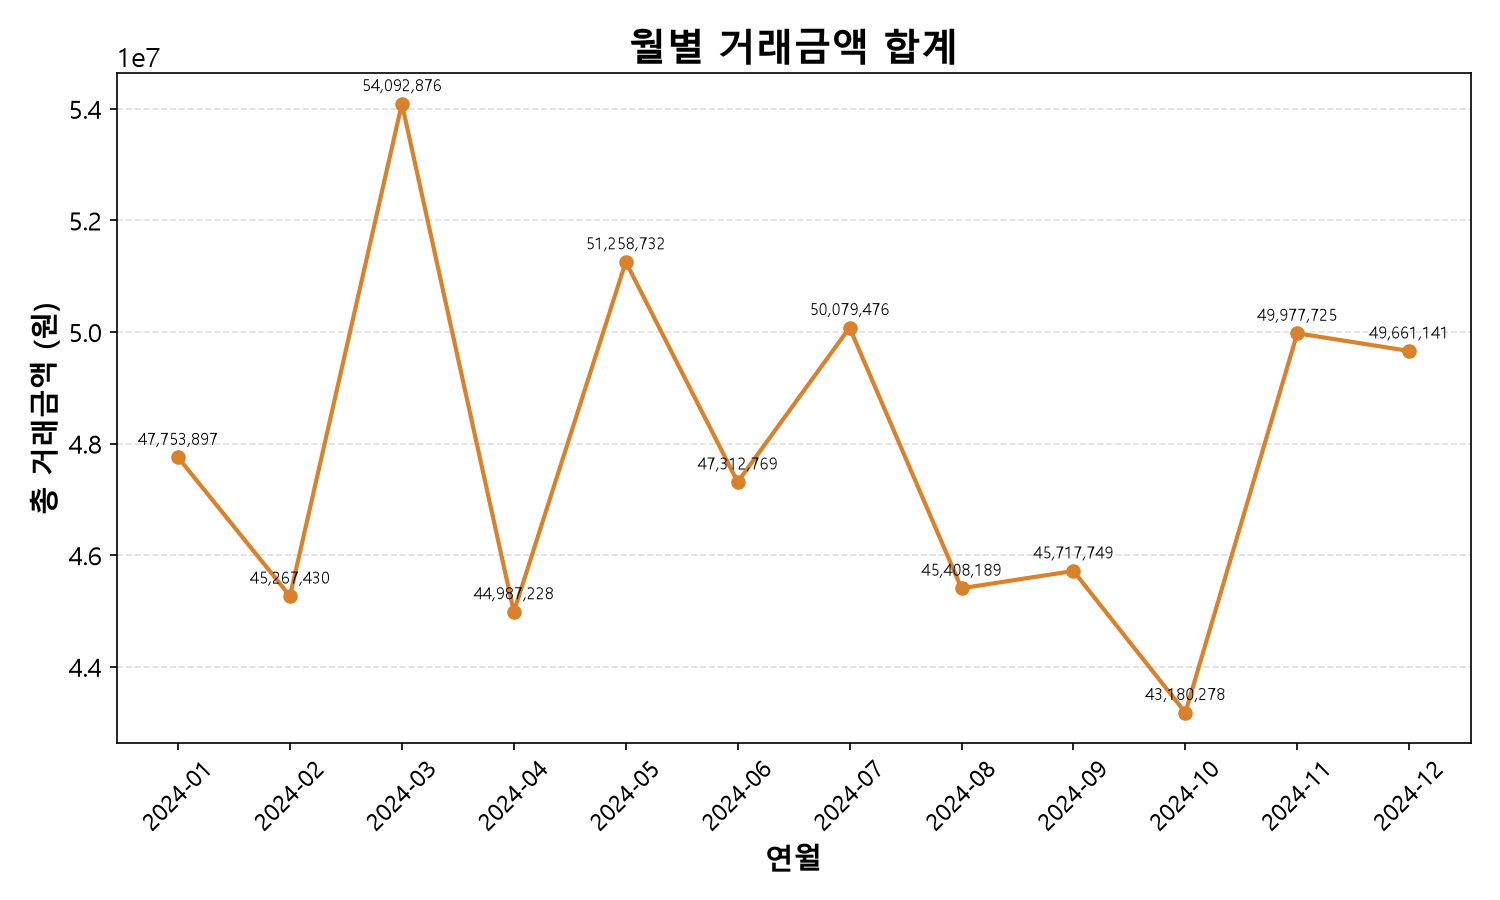
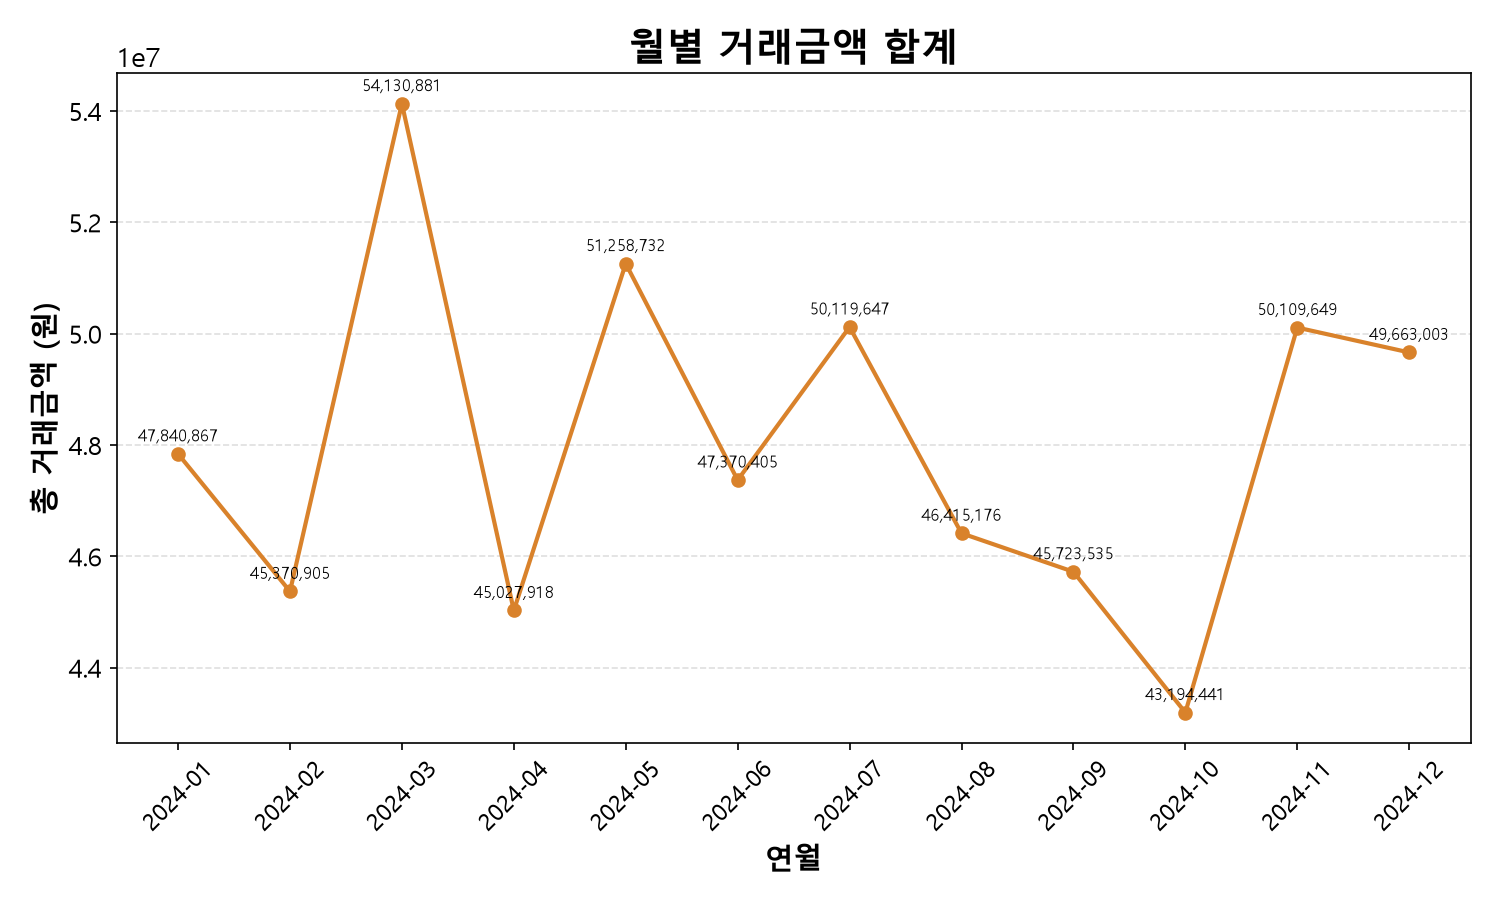
정제 파일에 음수 거래금액 제거 단계 추가(11,713행), 연령대 박스플롯·요일별 막대 그래프 추가, 전체 그래프·보고서 재생성
Claude-Session: https://claude.ai/code/session_01LZdg1f9QtFQKoLo3eTQjnP

diff --git a/scripts/plot_연령대_요일.py b/scripts/plot_연령대_요일.py
@@ -1,0 +1,87 @@
+import os
+os.chdir(os.path.dirname(os.path.abspath(__file__)) + "/..")
+
+import pandas as pd
+import matplotlib.pyplot as plt
+import matplotlib as mpl
+from matplotlib.ticker import FuncFormatter
+
+mpl.rcParams["font.family"] = "Malgun Gothic"
+mpl.rcParams["axes.unicode_minus"] = False
+mpl.rcParams["font.size"] = 13
+
+df = pd.read_csv("data/핀테크_정제완료.csv", encoding="utf-8-sig")
+df["거래일시"] = pd.to_datetime(df["거래일시"], format="mixed")
+
+os.makedirs("output/charts", exist_ok=True)
+
+# ---------- 1) 연령대별 거래금액 분포 - 박스플롯 ----------
+# 연령대를 나이 순서로 정렬 - 그냥 두면 문자열 순서(10대,20대,30대...)라 상관없어 보이지만
+# '알수없음'/'미상' 같은 결측 라벨이 섞이면 순서가 뒤섞이므로 명시적으로 순서를 지정함
+age_order = ["10대", "20대", "30대", "40대", "50대", "60대 이상"]
+present_ages = [a for a in age_order if a in df["연령대"].unique()]
+other_ages = [a for a in df["연령대"].unique() if a not in age_order]
+order = present_ages + other_ages
+
+# 박스플롯을 그릴 때만 초고액 이상치를 뺌(정제 파일 자체는 건드리지 않음).
+# IQR(사분위범위) 기준 상한을 넘는 값은 소수의 극단치라서 그대로 두면 박스가 눌려 보임
+q1, q3 = df["거래금액"].quantile(0.25), df["거래금액"].quantile(0.75)
+iqr = q3 - q1
+upper_fence = q3 + 1.5 * iqr
+n_excluded = (df["거래금액"] > upper_fence).sum()
+df_box = df[df["거래금액"] <= upper_fence]
+print(f"박스플롯용 이상치 제외: {n_excluded}건 (상한 {upper_fence:,.0f}원 초과)")
+
+data_by_age = [df_box.loc[df_box["연령대"] == a, "거래금액"].dropna().values for a in order]
+
+fig1, ax1 = plt.subplots(figsize=(10, 6))
+bp = ax1.boxplot(data_by_age, tick_labels=order, patch_artist=True,
+                  medianprops=dict(color="#8B3A00", linewidth=2),
+                  flierprops=dict(marker="o", markersize=3, markerfacecolor="#C0392B", markeredgecolor="none", alpha=0.5))
+for patch in bp["boxes"]:
+    patch.set_facecolor("#F0A868")
+    patch.set_edgecolor("#8B3A00")
+
+ax1.set_xlabel("연령대", fontsize=14, fontweight="bold")
+ax1.set_ylabel("거래금액 (천원)", fontsize=14, fontweight="bold")
+ax1.tick_params(axis="x", labelsize=12)
+ax1.tick_params(axis="y", labelsize=12)
+ax1.yaxis.set_major_formatter(FuncFormatter(lambda x, _: f"{x/1000:,.0f}"))
+ax1.grid(axis="y", linestyle="--", alpha=0.4, zorder=0)
+ax1.set_axisbelow(True)
+
+ax1.set_title(f"연령대별 거래금액 분포 (IQR 상한 초과 이상치 {n_excluded}건 제외)",
+              fontsize=16, fontweight="bold")
+
+fig1.tight_layout()
+fig1.savefig("output/charts/연령대별_거래금액_분포.png", dpi=150)
+print("저장 완료: output/charts/연령대별_거래금액_분포.png")
+
+# ---------- 2) 요일별 거래 건수 - 막대그래프 ----------
+weekday_kr = ["월", "화", "수", "목", "금", "토", "일"]
+df["요일"] = df["거래일시"].dt.dayofweek.map(dict(enumerate(weekday_kr)))
+weekday_counts = df["요일"].value_counts().reindex(weekday_kr)
+
+fig2, ax2 = plt.subplots(figsize=(9, 6))
+colors = ["#D9822B"] * 5 + ["#C0392B"] * 2  # 주말(토,일)만 강조색으로 구분
+bars = ax2.bar(weekday_counts.index, weekday_counts.values, color=colors)
+ax2.set_title("요일별 거래 건수", fontsize=18, fontweight="bold")
+ax2.set_xlabel("요일", fontsize=14, fontweight="bold")
+ax2.set_ylabel("거래 건수", fontsize=14, fontweight="bold")
+ax2.tick_params(axis="x", labelsize=12)
+ax2.tick_params(axis="y", labelsize=12)
+ax2.grid(axis="y", linestyle="--", alpha=0.4, zorder=0)
+ax2.set_axisbelow(True)
+
+for bar in bars:
+    height = bar.get_height()
+    ax2.annotate(f"{height:,}건", xy=(bar.get_x() + bar.get_width() / 2, height),
+                 xytext=(0, 4), textcoords="offset points", ha="center", va="bottom",
+                 fontsize=11, fontweight="bold")
+
+ax2.margins(y=0.12)
+fig2.tight_layout()
+fig2.savefig("output/charts/요일별_거래건수.png", dpi=150)
+print("저장 완료: output/charts/요일별_거래건수.png")
+
+plt.show()

diff --git a/scripts/clean_fintech.py b/scripts/clean_fintech.py
@@ -30,8 +30,15 @@ df = df.drop_duplicates()
 n3 = len(df)
 print(f"3단계(완전 중복 제거) 후: {n3}행 ({before - n3}건 감소)")
 
+# 4. 음수 거래금액 제거 - 부호가 뒤집힌 값이 섞여 있으면 합계·분포(박스플롯 등)가 왜곡됨.
+# CLAUDE.md 기본 규칙상 정제 단계에서는 안 건드리지만, 이번엔 별도로 지시받아 제거함
+before = len(df)
+df = df[df["거래금액"] >= 0]
+n4 = len(df)
+print(f"4단계(음수 거래금액 제거) 후: {n4}행 ({before - n4}건 감소)")
+
 df.to_csv(DST, index=False, encoding="utf-8-sig")
 
 print()
-print(f"정제 전: {n0}행 -> 정제 후: {n3}행 (총 {n0 - n3}건 감소)")
+print(f"정제 전: {n0}행 -> 정제 후: {n4}행 (총 {n0 - n4}건 감소)")
 print(f"저장 완료: {DST}")

diff --git a/그래프_분석_보고서.md b/그래프_분석_보고서.md
@@ -1,6 +1,6 @@
 # 핀테크 결제 데이터 그래프 분석 보고서
 
-데이터 출처: `data/핀테크_정제완료.csv`
+데이터 출처: `data/핀테크_정제완료.csv` (11,713행 — 결측 채움→결측행 삭제→완전중복 제거→음수 거래금액 제거)
 
 ---
 
@@ -8,9 +8,9 @@
 
 ![업종별 총 거래금액](output/charts/업종별_총거래금액.png)
 
-- '여행' 업종 126,354,008원으로 1위, 전체의 22.0%
-- '쇼핑'(120,599,357원) 근소한 차이로 2위, 상위 두 업종이 전체의 약 43% — 매출 소수 업종 집중
-- '교통'(5,244,276원) 최하위, 1위 대비 24배 차이 — 소액·고빈도 결제(대중교통) 특성
+- '여행' 업종 127,325,668원으로 1위, 전체(576,225,159원)의 22.1%
+- '쇼핑'(120,900,040원) 근소한 차이로 2위, 상위 두 업종이 전체의 약 43.1% — 매출 소수 업종 집중
+- '교통'(5,251,924원) 최하위, 1위 대비 약 24.2배 차이 — 소액·고빈도 결제(대중교통) 특성
 - **시사점**: 여행·쇼핑 등 고단가 업종 중심 제휴/프로모션이 매출 확대에 효율적, 교통은 건수 기반 서비스(포인트 적립 등) 접근 적합
 
 ---
@@ -19,8 +19,8 @@
 
 ![월별 거래금액 추이](output/charts/월별_거래금액_추이.png)
 
-- 3월(54,092,876원) 연중 최고치, 10월(43,180,278원) 최저치
-- 최댓값·최솟값 차이 약 1,090만 원, 전체 평균(약 4,800만 원) 대비 20% 남짓 — 뚜렷한 계절성보다 완만한 등락
+- 3월(54,130,881원) 연중 최고치, 10월(43,194,441원) 최저치
+- 최댓값·최솟값 차이 약 1,094만 원, 전체 평균(약 4,802만 원) 대비 22.8% 남짓 — 뚜렷한 계절성보다 완만한 등락
 - 1~3월 상승 후 4월 급락, 5월 재상승 등 톱니형 변동 반복 — 특정 이벤트(설 연휴, 분기 결산 등)와의 연관성 추가 확인 필요
 - **시사점**: 뚜렷한 성수기·비수기 구간 부재, 프로모션을 특정 시즌에 집중할 근거 미약. 월별 변동 원인(업종·이벤트) 추가 분석 필요
 
@@ -30,9 +30,9 @@
 
 ![결제수단별 거래금액 비중](output/charts/결제수단별_금액비중.png)
 
-- 신용카드 금액 기준 38.5%로 1위, 체크카드(21.5%)·계좌이체(16.1%) 순
-- 건수 비중(39.2%)과 금액 비중(38.5%) 유사 — 신용카드 건당 단가 평균 수준
-- `' 신용카드'`(공백 오염, 5.1%), `'알수없음'`(결측 대체, 3.2%) 별도 조각 존재. 공백 오염분 병합 시 신용카드 비중 약 43.7%
+- 신용카드 금액 기준 38.6%로 1위, 체크카드(21.5%)·계좌이체(16.1%) 순
+- 건수 비중(39.3%)과 금액 비중(38.6%) 유사 — 신용카드 건당 단가 평균 수준
+- `' 신용카드'`(공백 오염, 5.1%), `'알수없음'`(결측 대체, 3.2%) 별도 조각 존재. 공백 오염분 병합 시 신용카드 비중 약 43.8%
 - **시사점**: 신용카드 의존도 최고 결제 채널 — 카드사 제휴가 매출에 직접적 영향. 공백 오염 데이터 정제 파이프라인 반영 필요(비중 정확도 개선)
 
 ---
@@ -41,12 +41,32 @@
 
 ![지역 × 업종 거래금액 히트맵](output/charts/지역_업종_거래금액_히트맵.png)
 
-- 서울(160,603,512원)·경기(137,057,485원) 2개 지역이 전체(574,697,490원)의 약 51.8% — 수도권 매출 절반 이상 집중
+- 서울(160,777,701원)·경기(137,759,789원) 2개 지역이 전체의 약 51.8% — 수도권 매출 절반 이상 집중
 - 세종(5,510,049원) 최하위, 서울 대비 약 29배 차이 — 인구·상권 규모 차이 반영
-- 최대 셀은 '서울×여행'(39,116,569원), 뒤이어 '서울×쇼핑'(32,717,198원)·'경기×쇼핑'(28,969,045원) — 상위 셀 대부분 서울·경기에 집중, 업종은 여행·쇼핑 위주로 앞서 본 업종별 총액 순위와 일치
-- 서울 내부도 여행·쇼핑·교육 순으로 쏠림 — 지역 1위라고 업종 분산이 고른 건 아니며 전국 평균 쏠림 패턴이 그대로 재현됨
-- '알수없음'(결측 대체) 지역 22,629,053원, 전체의 3.9% — 무시할 수준은 아니라 지역 집계 시 결측 비중을 같이 명시할 필요
+- 최대 셀은 '서울×여행'(39,116,569원), 뒤이어 '서울×쇼핑'(32,766,839원)·'경기×쇼핑'(28,969,045원) — 상위 셀 대부분 서울·경기에 집중, 업종은 여행·쇼핑 위주로 앞서 본 업종별 총액 순위와 일치
+- '알수없음'(결측 대체) 지역 22,672,930원, 전체의 3.9% — 지역 집계 시 결측 비중 병기 필요
 - **시사점**: 지역 마케팅 예산은 서울·경기 편중이 이미 매출 구조를 지배하므로, 신규 확대는 지방보다 수도권 내 업종 다각화(교육·공과금 등 비여행 업종 비중 확대)가 더 현실적. 지방 거점은 절대 매출보다 성장률·1인당 거래액 같은 상대 지표로 접근 필요
+
+---
+
+## 5. 연령대별 거래금액 분포 (박스플롯)
+
+![연령대별 거래금액 분포](output/charts/연령대별_거래금액_분포.png)
+
+- 박스플롯은 IQR 상한(130,686원) 초과 이상치 921건을 그릴 때만 제외 — 정제 파일 자체는 그대로 유지
+- 연령대별 중앙값 거의 동일(26,900원~28,700원 범위) — 어느 세대든 전형적인 결제 단가는 비슷함
+- 평균은 10대(52,444원)·50대(52,232원)가 20~40대(46,750원~50,148원)보다 다소 높음 — 중앙값 차이가 작은데 평균이 벌어지는 건 해당 연령대에 고액 결제가 상대적으로 더 섞여 있다는 뜻
+- **시사점**: 연령대별 단가 차이가 크지 않아 "특정 세대 = 고액 소비"라는 가정은 근거 약함. 오히려 거래 건수(20~30대 6,255건으로 전체의 절반 이상)가 세대별 매출 기여도를 더 크게 좌우
+
+---
+
+## 6. 요일별 거래 건수
+
+![요일별 거래 건수](output/charts/요일별_거래건수.png)
+
+- 요일별 건수 편차 크지 않음(1,649건~1,698건), 최댓값(토, 1,698건)과 최솟값(화, 1,649건) 차이 약 3%
+- 평일 합계 8,352건, 주말 합계 3,361건 — 요일 수 차이(5일 vs 2일)를 감안하면 일평균은 평일 1,670건, 주말 1,681건으로 거의 동일
+- **시사점**: 특정 요일에 결제가 몰리는 패턴 없음. 요일 기반 프로모션(예: '불금 할인')의 효과는 거래 건수 증가보다 다른 목적(고객 락인 등)에서 찾아야 함
 
 ---
 
@@ -56,7 +76,9 @@
 |---|---|
 | 업종별 총액 | 여행·쇼핑 매출 집중, 교통 소액·고빈도 |
 | 월별 추이 | 3월 최고·10월 최저, 뚜렷한 계절성 부재 |
-| 결제수단 비중 | 신용카드 최다(38.5%~43.7%), 데이터 정제 여지 존재 |
+| 결제수단 비중 | 신용카드 최다(38.6%~43.8%), 데이터 정제 여지 존재 |
 | 지역×업종 히트맵 | 서울·경기 51.8% 집중, 최대 셀은 서울×여행 |
+| 연령대별 분포 | 세대별 결제 단가 차이 미미, 건수가 매출 기여도 좌우 |
+| 요일별 건수 | 요일 편차 없음, 평일·주말 일평균 거의 동일 |
 
-매출 집중 구조: 특정 지역(서울·경기) × 특정 업종(여행·쇼핑) × 특정 결제수단(신용카드), 시간축상 뚜렷한 성수기 부재. 프로모션 우선순위 — 시즌보다 지역·업종·결제수단 조합(예: 수도권 + 여행 업종 + 신용카드 제휴) 기준 설계 권장.
+매출 집중 구조: 특정 지역(서울·경기) × 특정 업종(여행·쇼핑) × 특정 결제수단(신용카드), 시간축(월/요일) 모두 뚜렷한 쏠림 없음. 프로모션 우선순위 — 시즌/요일보다 지역·업종·결제수단 조합(예: 수도권 + 여행 업종 + 신용카드 제휴) 기준 설계 권장.
